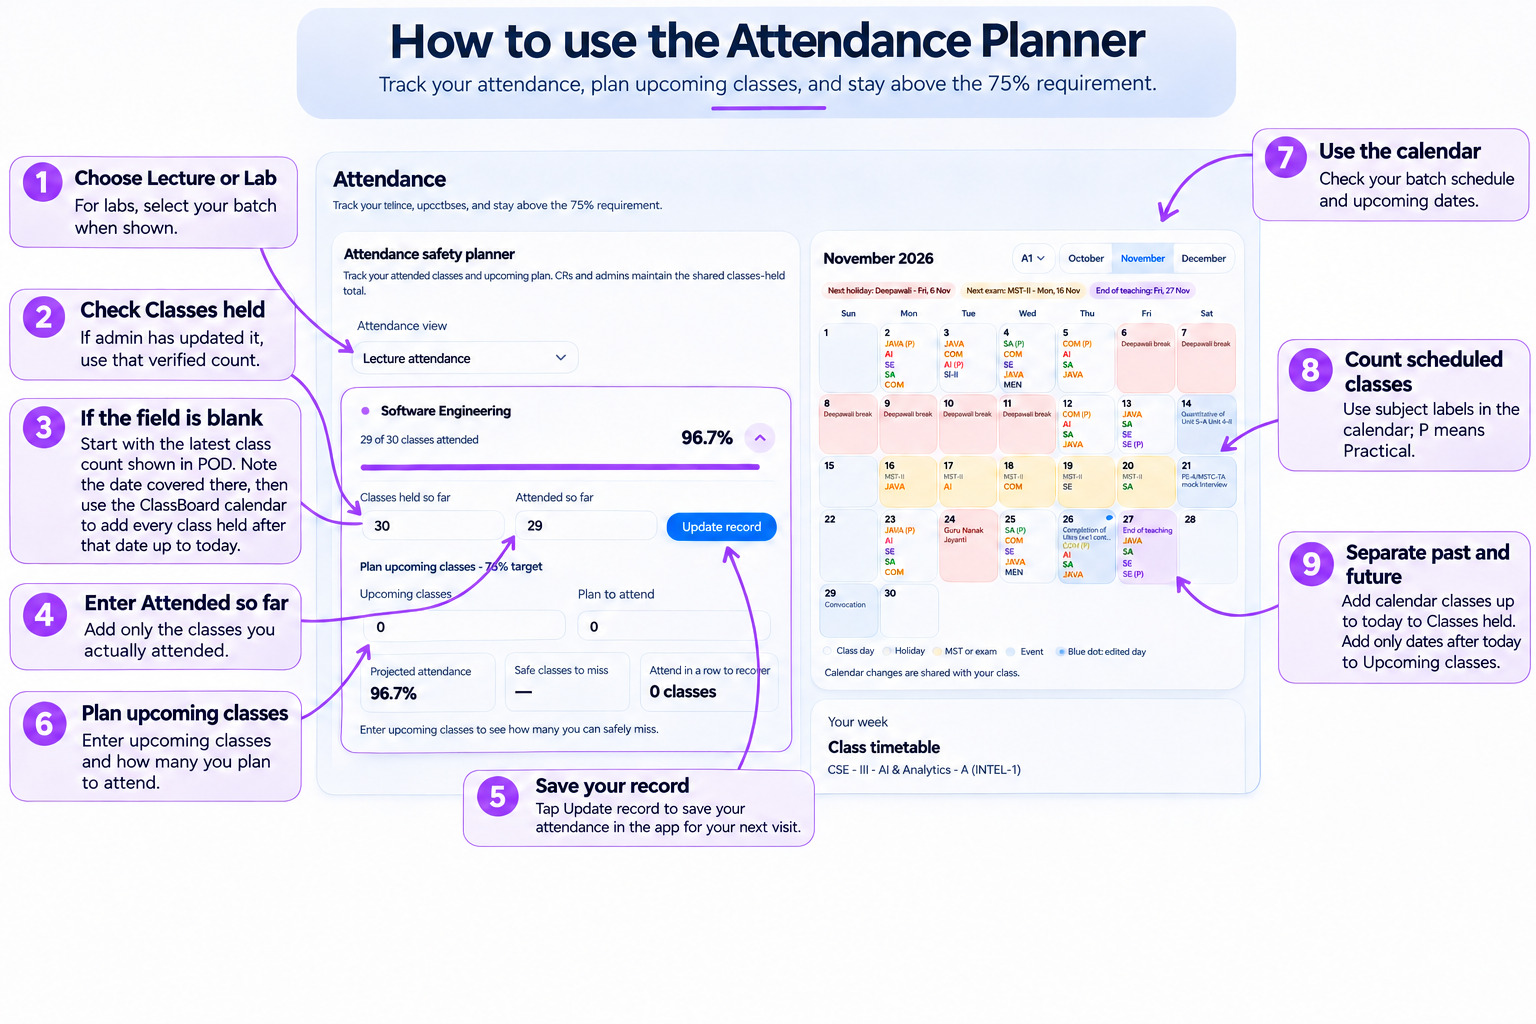
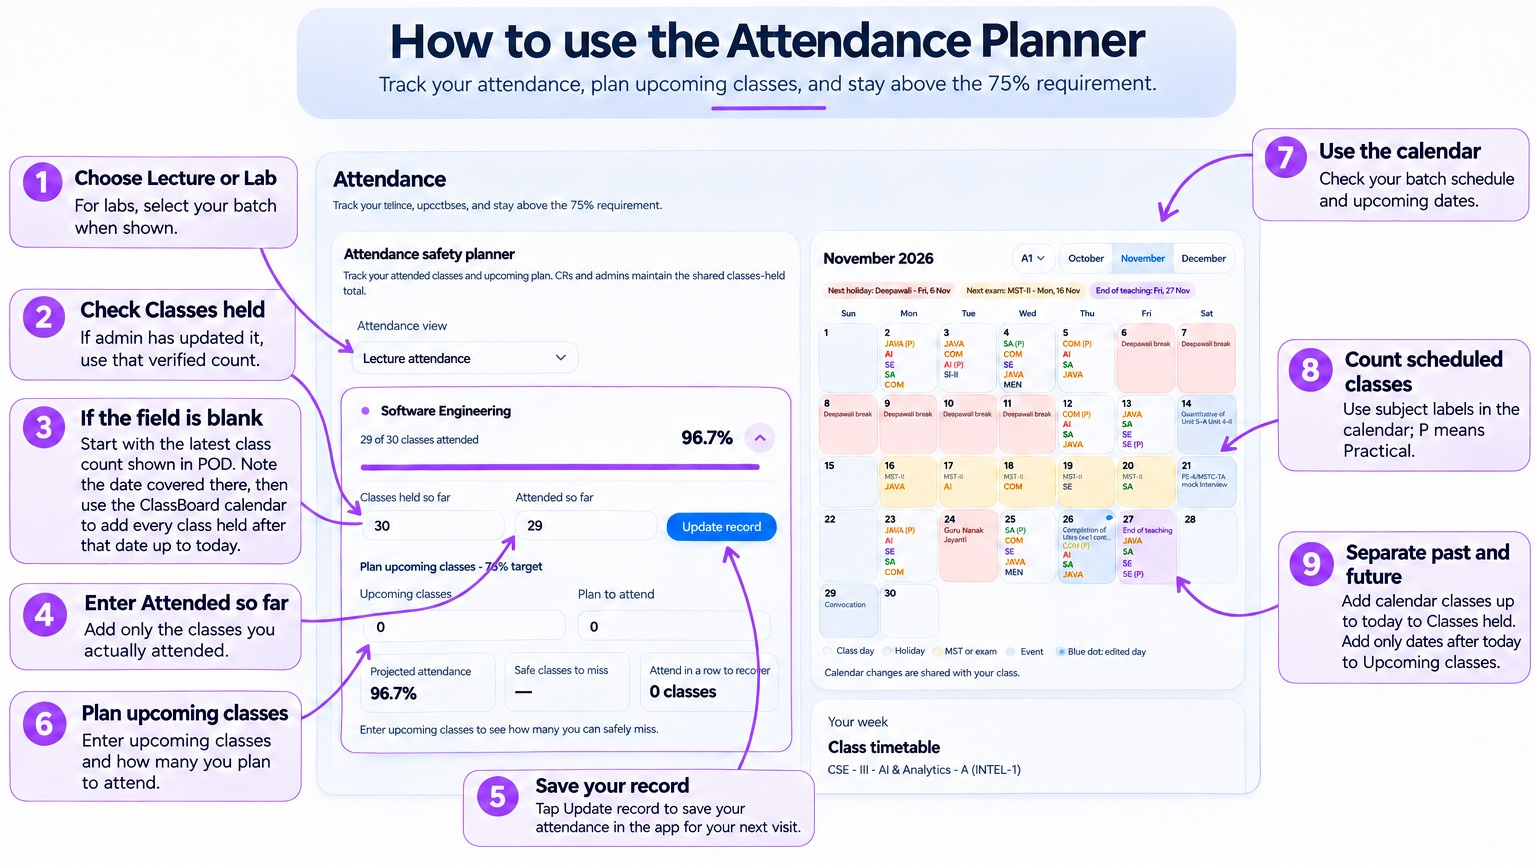
Crop unused bottom whitespace from attendance planner guide image

Changed region(s): [[0.0, 0.0, 1.0, 0.9676]]

diff --git a/classboard/index.html b/classboard/index.html
@@ -5531,7 +5531,7 @@
                   <svg viewBox="0 0 24 24" fill="none" stroke="currentColor" stroke-width="2" stroke-linecap="round" stroke-linejoin="round" width="15" height="15"><circle cx="11" cy="11" r="8"></circle><line x1="21" y1="21" x2="16.65" y2="16.65"></line><line x1="11" y1="8" x2="11" y2="14"></line><line x1="8" y1="11" x2="14" y2="11"></line></svg>
                   <span>Click to expand</span>
                 </div>
-                <img src="./how-to-use-attendance-planner.jpg" alt="How to use the Attendance Planner guide with step-by-step instructions" loading="lazy" width="1024" height="682" />
+                <img src="./how-to-use-attendance-planner.jpg" alt="How to use the Attendance Planner guide with step-by-step instructions" loading="lazy" width="1536" height="865" />
               </div>
 
               <!-- Key Results Highlights -->
